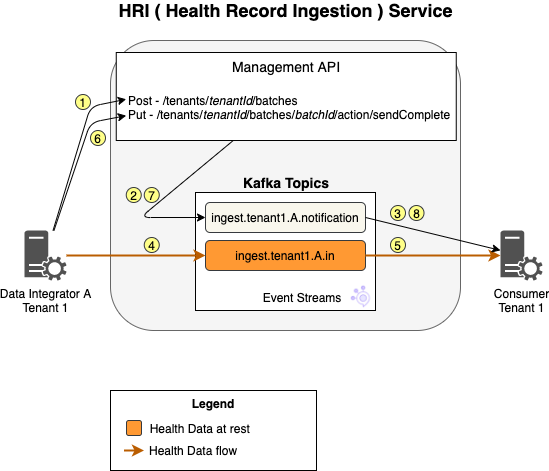
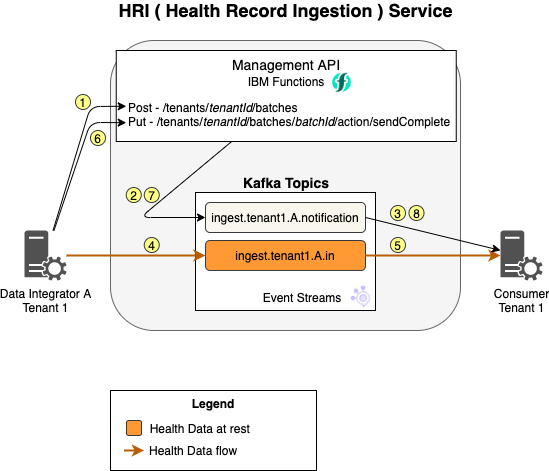
Copied support-2.x branch

Changed region(s): [[0.1548, 0.0892, 0.8361, 0.2675], [0.2168, 0.2972, 0.8361, 0.3567], [0.3406, 0.3567, 0.3716, 0.3864]]

diff --git a/documentation/deployment.md b/documentation/deployment.md
@@ -38,37 +38,23 @@ NOTE: The Event Streams Enterprise plan is expensive, which is why we recommend 
 ## Create Authorization Service
 The HRI Management API requires an authorization service. Integration testing has been performed with [IBM Cloud App ID](https://www.ibm.com/cloud/app-id), but any compliant service can be used. See [Authorization](auth.md) for more details about the requirements and how to set up an App ID cloud service.
 
-## Deploy the HRI Management API to Kubernetes
-The Management API is packaged in a docker container for Kubernetes deployments and available on [GitHub](https://github.com/Alvearie/hri-mgmt-api/pkgs/container/hri-mgmt-api%2Fmgmt-api). The service is stateless, so you can scale up to as many pods as needed or even deploy multiple instances that use the same Elasticsearch, Kafka, and Authorization services.
+## Deploy the HRI Management API to IBM Functions
+The Management API is designed to run on [IBM Functions](https://cloud.ibm.com/docs/openwhisk?topic=openwhisk-about) and can be deployed using the IBM Cloud CLI Functions plug-in. The [deploy.sh](https://github.com/Alvearie/hri-mgmt-api/blob/support-2.x/deploy.sh) script automates the process by creating an IBM Functions namespace, deploying the code and API, setting configuration values, and binding Elasticsearch and Event Streams service credentials. There are also scripts for configuring Elasticsearch, [elastic.sh](https://github.com/Alvearie/hri-mgmt-api/blob/support-2.x/docker/elastic.sh), and performing initial configurations of App ID, [appid.sh](https://github.com/Alvearie/hri-mgmt-api/blob/support-2.x/docker/appid.sh). These scripts are packaged into a docker container with the compiled code to support automated deployments and are available on [GitHub](https://github.com/Alvearie/hri-mgmt-api/pkgs/container/hri-mgmt-api%2Fmgmt-api-deploy). Below is a table of the environment variables used by the scripts.
 
-The Management API process only needs a valid configuration, which can be provided by any combination of command line arguments, environment variables, and a yaml file. Conflicts are resolved in the order: command line arguments (highest priority), environment variables, and yaml file(lowest priority). Below is a table of the configuration options.
-
-| CLI Flag | Description | Required
-|:---------|:------------|:---------
-|`-config-path` | Path to a config file, default "./config.yml" | 
-|`-elastic-crn` | Elasticsearch service CRN | Yes
-|`-elastic-url` | The base url to the Elasticsearch instance | Yes 
-|`-elastic-cert` | Elasticsearch TLS public certificate | Yes
-|`-elastic-username` | Elasticsearch user name | Yes
-|`-elastic-password` | Elasticsearch password | Yes
-|`-kafka-admin-url` | Kafka administration url | Yes
-|`-kafka-brokers` | A list of Kafka brokers, separated by "," | Yes
-|`-kafka-properties` | A list of Kafka properties, entries separated by ",", key value pairs separated by ":" | Yes
-|`-auth-disabled` | `true` to disable OAuth Authorization, default: false |
-|`-oidc-issuer` | The base URL of the OIDC issuer to use for OAuth authentication (e.g. https://us-south.appid.cloud.ibm.com/oauth/v4/<tenantId>). | If `-auth-disabled` is false.
-|`-jwt-audience-id` | The ID of the HRI Management API within your authorization service. | If `-auth-disabled` is false.
-|`-tls-enabled` | Toggle enabling an encrypted connection via TLS, default: false | 
-|`-tls-cert-path` | Path to the TLS certificate. | If `-tls-enabled` is true.
-|`-tls-key-path` | Path to the TLS key. | If `-tls-enabled` is true.
-|`-new-relic-enabled` | True to enable New Relic monitoring, default: false
-|`-new-relic-app-name` | Application name to aggregate data under in New Relic. | If `-new-relic-enabled` is true.
-|`-new-relic-license-key` | New Relic license key. | If `-new-relic-enabled` is true.
-|`-validation` | True to enable record validation, default false |
-|`-log-level` | Minimum Log Level for logging output. Available levels are: Trace, Debug, Info, Warning, Error, Fatal and Panic. Default "info") |
-
-The associated environment variable is named by removing the leading `-`, capitalizing all characters, and replacing remaining `-` with `_`. For example, the `-auth-disabled` flag has the `AUTH_DISABLED` environment variable.
-
-Yaml file entries are named by removing the leading `-`. For example, the `-auth-disabled` flag has the `auth-disabled` yaml entry.
+|  Name     | Description         |
+|-----------|---------------------|
+| IBM_CLOUD_API_KEY   | The API key for IBM Cloud |
+| IBM_CLOUD_REGION    | Target IBM Cloud Region, e.g. 'ibm:yp:us-south' |
+| RESOURCE_GROUP      | Target IBM Cloud Resource Group |
+| NAMESPACE           | Target IBM Functions namespace |
+| ELASTIC_INSTANCE    | Name of Elasticsearch instance |
+| ELASTIC_SVC_ACCOUNT | Name of Elasticsearch service ID |
+| KAFKA_INSTANCE      | Name of Event Streams (Kafka) instance |
+| KAFKA_SVC_ACCOUNT   | Name of Event Streams (Kafka) service ID |
+| VALIDATION          | Whether to deploy the Management API with Validation, e.g. 'true', 'false' |
+| OIDC_ISSUER         | The base URL of the OIDC issuer to use for OAuth authentication (e.g. `https://us-south.appid.cloud.ibm.com/oauth/v4/<tenantId>`)               |
+| APPID_PREFIX        | (Optional) Prefix string to append to the AppId applications and roles created during deployment                                                |
+| SET_UP_APPID        | (Optional) defaults to true. Set to false if you do not want the App ID set-up enabled. |
 
 ## Validation Processing
 Validation processing is an optional feature that validates the data as it flows through the HRI. See [Validation](validation.md) for details on the validation performed and customization options. See [Processing Flows](processflow.md) for details on how it fits into the overall architecture. 

diff --git a/documentation/releases.md b/documentation/releases.md
@@ -4,27 +4,6 @@ This page lists the releases with notes for the HRI with information about how t
 
 Unless stated otherwise in the release notes of a specific version, upgrading the HRI should be achievable without downtime. If you are only upgrading to a new patch version, simply upgrade your existing deployment with the patched version. Otherwise, the new version can be deployed and configured separately in a different namespace while the old HRI version is still active, and the old HRI version can be deleted when migration is complete. In this case, be sure to use the same Elasticsearch and Event Streams instances for both of the HRI versions. Again, please see the upgrade notes for all versions between your current and target versions for any additional requirements.
 
-## v3.x
-Version `3.x` is the latest version focused on making the HRI a cloud-portable service. The Management API was moved from IBM Functions to a standard REST Web server and is packaged into a docker image for Kubernetes based deployments.
-
-### v3.0.0
-
-#### Release notes
-Initial open source release of `v3.x`. This **major HRI release** ports the Management API from IBM Cloud Functions to a standard REST Web server and is packaged into a docker image for Kubernetes based deployments. This release supports the goal of making the HRI a cloud-portable service. 
-
-#### Upgrading
-This release does not contain breaking changes to the API specification, but there are steps required to migrate the Management API to a Kubernetes based deployment. The same IBM Cloud services (Elasticsearch, Event Streams, AppID, etc.) can be shared between a v2.x deployment and a new v3.x deployment. Below are the migration steps:
-
-1. Deploy v3.0.0 to Kubernetes.
-    1. The same namespace of an older deployment can be used.
-    1. If using validation, also update the Flink and Zookeeper deployments. They are backwards compatible with v2.x.
-    1. Use the same OIDC settings, so that existing configurations are used in the new Management API Kubernetes deployment.
-1. If using validation, migrate existing Flink jobs to the latest validation job jars.
-    1. Stop existing validation jobs with a savepoint.
-    1. Restart each job from the savepoint using the latest validation job jar and change the Management API URL to the new Kubernetes deployment. All other parameters should remain the same.
-1. Have Data Integrators and Consumers migrate from the old Management API (URL) to the new Kubernetes deployment endpoints.
-1. When all clients have migrated, delete the IBM Functions namespace that held the old Management API.
-
 ## v2.x
 Version `2.x` uses IBM Functions to deploy the Management API and includes validation processing. It is scheduled for deprecation in Q4 of 2022. Until then security updates and bug fixes will still be made, but no new features will be added. Please upgrade to the latest version at your earliest convenience.
 
@@ -37,7 +16,7 @@ Initial open source release of `v2.x`.
 This release **does not contain** breaking changes. Data Integrators and Consumers will maintain access to old batches. However, please note that there are changes to the Elasticsearch mapping template, which must be applied to all existing indices (one for every tenant). Below is a series of upgrade tasks. 
 
 1. The Elasticsearch index mappings need to be updated to account for the new `expectedRecordCount`, `actualRecordCount`, `invalidThreshold`, and `invalidRecordCount` fields. `recordCount` is considered deprecated as of v2.0.0 and `expectedRecordCount` should be used instead.
-2. Download the new index template from [GitHub](https://github.com/Alvearie/hri-mgmt-api/blob/v2.1-2.1.5/document-store/index-templates/batches.json)
+2. Download the new index template from [GitHub](https://github.com/Alvearie/hri-mgmt-api/blob/support-2.x/document-store/index-templates/batches.json)
 3. Follow these [instructions](troubleshooting.md#upgrade-existing-elasticsearch-indices) to upgrade all the existing Elasticsearch indices with the `batch.json` index template downloaded in the prior step.
 
 The `expectedRecordCount`, `actualRecordCount`, `invalidThreshold`, and `invalidRecordCount` fields have also been added to the [Batch API](apispec.md#batches) and [Notification Message](apispec.md#notification-messages) model, so Data Integrators and Consumers may need to update their integration tools to prevent parsing errors. Additional Batch Notification messages and `status` values have also been added. For more information, refer to the [Batch Status Transitions](processflow.md#batch-status-transitions) documentation.

diff --git a/documentation/monitorlog.md b/documentation/monitorlog.md
@@ -1,18 +1,31 @@
 # HRI Monitoring & Logging
 
-## HRI Management API 
+## HRI Management API
 
 ### Logging
-The Management API writes logs to standard out and can be configured to output these levels: Trace, Debug, Info, Warning, Error, Fatal and Panic. The default level is Info. At Info and below, every request's response code is logged. At Debug and below, the request and responses body is also logged.
 
-In addition, every request is assigned a unique ID, which is included is most log messages and all error responses as the `errorEventId`. This helps facilitate investigation of issues with specific calls. If the client experiencing the issue can provide the `errorEventId`, the logs can be easily searched for that ID to find all relevant log messages.
+#### IBM Functions Tooling
+IBM Cloud Functions provides some built-in monitoring tools. On the IBM Cloud Functions main page, select the correct/appropriate [_Namespace_](https://cloud.ibm.com/docs/openwhisk?topic=openwhisk-namespaces) for your particular Management API deployment. Then select the "Activations Dashboard" link from the left-hand side menu. 
+
+![ibm-functions-nav-menu](images/ibm_functions_nav_menu_activations.png)
+
+The Activations Dashboard will show recent calls (limited to 7 days) to the Management API, their response times, and failure indicators. You can click on the _`activationId` link_ for any given function invocation to view additional details. In the example below, for the `create_batch` function call, the `activationId` is the alpha-numeric identifier string starting with "21fc4f038ddb":
+
+![functions-monitor-page](images/functions_activations_dashboard_page.jpg)
+
+Clicking the `activationId` link will open up a new tab showing the details of that particular function call, including the path and any possible error event or description.
+
+![fx-activity-detail](images/fx_activity_detail.jpg)
+
+#### LogDNA
+Logs from IBM Functions are also written to the LogDNA instance designated as "Platform Logs" for your Cloud account. You view the list of LogDNA instances here: https://cloud.ibm.com/observe/logging. Open the dashboard to view the logs, which will also contain messages from many other IBM Cloud services. Choose the “All Sources” menu and select the “functions” checkbox to filter only on IBM Functions log messages as seen in this Screen Cap:
+
+![filtering-by-functions](images/filter_by_functions.jpg)
+
+The search bar at the bottom can also be used to filter for specific messages. For example, since "`batches/`" is on the path of the REST API requests for many of the Management API operations, searching for it will only show those related logs. Additionally, most error responses returned from the Management API and most logging messages within the Management API include an [errorEventId](https://github.com/Alvearie/hri-api-spec/blob/support-2.x/management-api/management.yml). The `errorEventId` in an error response for a specific API invocation will match the `errorEventId` on logging messages from the same API invocation. Searching by the `errorEventId` is a recommended tactic for troubleshooting because it can illustrate what took place during the event call which produced the error.
 
 ### Monitoring
-The Management API has two endpoints to facilitate monitoring its health.
-
-1. There is an `/alive` that is not documented in the API specification as it not intended to be part of the exposed API. This endpoint is for Kubernetes liveness and readiness probes and ensures the [Echo web server](glossary.md#echo) is up and responding to requests. It requires no authentication and responds with a 200 code and `yes`.
-
-2. There is an `/hri/healthcheck` endpoint that checks the health of Elasticsearch and Kafka. It requires no authentication and responds with a 200 code and an empty body on success. If there are any issues a 500 code and body describing the issue is returned.
+The Management API has an `/hri/healthcheck` endpoint can that be used to monitor its health. It ensures the service is running and also checks the health of Elasticsearch and Event Streams. It requires no authentication and responds with a 200 code and an empty body on success. If there are any issues a 500 code and body describing the issue is returned.
 
 ## Event Streams
 

diff --git a/README.md b/README.md
@@ -12,7 +12,7 @@ Uses mkdocs https://www.mkdocs.org/. To add links modify `mkdocs.yml`.
 
 ### How to render locally
 * Prerequisites:
-  * Building the docs requires the `mkdocs`, `mkdocs-material`, and `pymdown-extensions` packages. 
+  * Building the docs requires the `mkdocs`, `mkdocs-material`, and `pymdown-extensions` packages.
   * Publishing the docs to GitHub Pages requires the `mike` package. (You can likely leave this step to the GitHub action builds, see [below](#how-to-publish-to-github-pages))
   * All of these can be installed with pip (ensure you are running python 3 at least) by running `pip install -r requirements.in`.
 
@@ -20,13 +20,13 @@ Uses mkdocs https://www.mkdocs.org/. To add links modify `mkdocs.yml`.
 * In your browser, go to the localhost address printed in the output of the `mkdocs serve` command.
 
 ### How to publish to GitHub pages
-We use a tool called [mike](https://github.com/jimporter/mike) to publish multiple versions of our documentation from different branches of the docs repo. The `mike deploy` command helps us build the docs, give that build a tag (e.g. `v3.x`) and publish that version of the documentation to the GitHub pages of the repo. Generally, you should not need to run this locally, as automated GitHub actions builds keep our published docs up to date. It will automatically build and deploy any changes to the `main` and `support-*` branches. If for some reason you need to, or you want to experiment in a private repo, you can see the actions for how we use `mike`.
+We use a tool called [mike](https://github.com/jimporter/mike) to publish multiple versions of our documentation from different branches of the docs repo. The `mike deploy` command helps us build the docs, give that build a tag (e.g. `v3.x`) and publish that version of the documentation to the GitHub pages of the repo. Generally, you should not need to run this locally, as automated GitHub Actions builds keep our published docs up to date. It will automatically build and deploy any changes to the `main` and `support-*` branches. If for some reason you need to, or you want to experiment in a private repo, you can see the GitHub Actions for how we use `mike`.
 
 ### Checks
 The `refCheck.sh` script is included to detect bad references and orphaned images. Just run this script from the base directory. It will print out any images in the `documentation/images/` directory that are being referenced in the markdown files and any references in the markdown files to a file or image that do not exist.
 
 ### Diagrams
-The diagrams are created with `draw.io`. You can download the app from GitHub: https://github.com/jgraph/drawio-desktop/releases/. All diagrams are png images with an embedded diagram, so they can be easily updated. To create a new one use File -> Export as -> PNG..., and select 'Include a copy of my diagram'. Save the images to `documentation/images`.
+The diagrams are created with `draw.io`. You can download the app from GitHub: https://github.com/jgraph/drawio-desktop/releases/. All diagrams are png images with an embedded diagram, so they can be easily updated. To create a new one, use File -> Export as -> PNG..., and select 'Include a copy of my diagram'. Save the images to `documentation/images`.
 
 ## Contribution Guide
 Please read [CONTRIBUTING.md](CONTRIBUTING.md) for details on our code of conduct, and the process for submitting pull requests to us.

diff --git a/documentation/auth.md b/documentation/auth.md
@@ -16,8 +16,6 @@ The Management API uses [OAuth 2.0](https://oauth.net/2/), [OIDC](https://openid
 ### Batch Endpoint Authorization
 Regarding batch endpoint authorization with JWT Tokens, the HRI does not include an authorization or authentication service, so users must provide one themselves and configure it as per the specification below. Oauth 2 and OIDC are widely used standards which allow solutions to use their own authorization & authentication. Your token issuer must be OIDC compliant, because the OIDC defined well-known endpoints are how the Management API will validate access tokens. HRI uses IBM Cloud App ID for its reference implementation of an OIDC-compliant authorization service. There are instructions provided below for how HRI users can configure their own instance of IBM Cloud App ID.
 
-Optionally, if solutions need to use a different authorization mechanism, authorization on the batch endpoints can be disabled. Solutions would deploy their own authorization proxy service, which would receive the initial request, perform authorization, and then proxy calls to the Management API service.
-
 ### Required Token Scopes:
 You must configure your authorization service to include HRI roles and tenant [scopes](https://oauth.net/2/scope/) in the access tokens (Note: `scope` is a standard claim that is a space-separated list of strings).
 
@@ -31,7 +29,7 @@ A Tenant scope matching the _tenant ID_ is required every time you call a "batch
 
 For example, if a data integrator tries to create a batch by making an HTTP POST call to `tenants/24/batches`, the token must contain scope `tenant_24`, where the `24` is the tenantId.
 
-Also, see [Multi-tenancy](multitenancy.md) for more information about tenants and roles. See the API [spec](https://github.com/Alvearie/hri-api-spec/blob/main/management-api/management.yml) for more details about required roles for specific endpoints.
+Also, see [Multi-tenancy](multitenancy.md) for more information about tenants and roles. See the API [spec](https://github.com/Alvearie/hri-api-spec/blob/support-2.x/management-api/management.yml) for more details about required roles for specific endpoints.
 
 
 ### Configuring the Token Issuer

diff --git a/documentation/apispec.md b/documentation/apispec.md
@@ -2,7 +2,7 @@
 The HRI consists of two separate APIs: the Management API and Apache Kafka.
 
 ## Management API Specification
-The Management API is defined using the OpenAPI 3.0 specification: [management.yml](https://github.com/Alvearie/hri-api-spec/blob/main/management-api/management.yml).
+The Management API is defined using the OpenAPI 3.0 specification: [management.yml](https://github.com/Alvearie/hri-api-spec/blob/support-2.x/management-api/management.yml).
 You can open the file directly or use a program such as IntelliJ or [Swagger UI](https://swagger.io/tools/swagger-ui/download/) to view it.
 
 ### HRI Tenants & Elasticsearch Indices
@@ -103,10 +103,10 @@ The HRI **does** have the following requirements and recommendations:
 
   
 ### Notification Messages
-The notification messages are json-encoded batches. They match the schema returned by the Management API described above, which is also defined here: [batchNotification.json](https://github.com/Alvearie/hri-api-spec/blob/main/notifications/batchNotification.json).
+The notification messages are json-encoded batches. They match the schema returned by the Management API described above, which is also defined here: [batchNotification.json](https://github.com/Alvearie/hri-api-spec/blob/support-2.x/notifications/batchNotification.json).
 
 ### Invalid Record Notifications
-When validation encounters an invalid record, an invalid record notification is written to the `*.invalid` topic. It contains a failure message, the batchId, and a pointer to the original record. Below is a table of the fields, and the json schema is defined here: [invalidRecord.json](https://github.com/Alvearie/hri-api-spec/blob/main/notifications/invalidRecord.json).
+When validation encounters an invalid record, an invalid record notification is written to the `*.invalid` topic. It contains a failure message, the batchId, and a pointer to the original record. Below is a table of the fields, and the json schema is defined here: [invalidRecord.json](https://github.com/Alvearie/hri-api-spec/blob/support-2.x/notifications/invalidRecord.json).
 
 | Field | Description |
 |-------|-------------|

diff --git a/documentation/processflow.md b/documentation/processflow.md
@@ -48,11 +48,11 @@ There's no validation processing and only the `*.in` and `*.notification` topics
 8. The Data Consumer receives the batch notification message.
 
 ## Batch Status Transitions
-Batches can go through several status changes, and for each change a notification message is written to the `*.notification` topic. Below is a state diagram indicating all the states the transition events. Note that the transitions are slightly different depending on whether validation has been enabled.
+Batches can go through several status changes, and for each change a notification message is written to the `*.notification` topic. Below is a state diagram indicating all the states and the transition events. Note that the transitions are slightly different depending on whether validation has been enabled.
 
 ![batch-status](images/batch-status.png) 
 
 ### Interleaved Batches
-The HRI does not prevent the Data Integrator from writing multiples batches into the same topic at the same time. Every record will have a header value that specifies the ["batchId"](glossary.md#batch-id), which is returned from the Management API (see [hri-api-spec/management-api/management.yml](https://github.com/Alvearie/hri-api-spec/blob/main/management-api/management.yml)), so the Data Consumer can distinguish each one. 
+The HRI does not prevent the Data Integrator from writing multiples batches into the same topic at the same time. Every record will have a header value that specifies the ["batchId"](glossary.md#batch-id), which is returned from the Management API (see [hri-api-spec/management-api/management.yml](https://github.com/Alvearie/hri-api-spec/blob/support-2.x/management-api/management.yml)), so the Data Consumer can distinguish each one. 
 
 In practice, the Data Integrator may only write one batch at a time. As necessary, additional input topics can be created to prevent the interleaving of batches or data types. However, please note that, in general, **_Kafka performs better with a small number of large topics_**.

diff --git a/documentation/glossary.md b/documentation/glossary.md
@@ -3,7 +3,7 @@
 A listing of key terms and phrases to help one's understanding of the Health Record Ingestion service.
 
 #### Batch: 
-  * A __Batch__ in an HRI context represents a **_collection of Health Data records that must be processed together_** in order for that dataset to be ingested correctly into a cloud based solution. Only processing some of the data would result in a bad state for the data consumer. Likewise, if there is an error with processing part of the data, the entire **batch** may need to be rejected.
+  * A __Batch__ in an HRI context represents a **_collection of Health Data records that must be processed together_** in order for that dataset to be ingested correctly into a cloud-based solution. Only processing some of the data would result in a bad state for the data consumer. Likewise, if there is an error with processing part of the data, the entire **batch** may need to be rejected.
   
 #### Batch ID: 
   * A unique identifier in HRI, referring to one specific batch. 
@@ -14,9 +14,6 @@ A listing of key terms and phrases to help one's understanding of the Health Rec
 #### Data Integrator: 
   * An "upstream" service, process or application that "sends" data into the HRI for processing. 
 
-#### Echo:
-* Go web framework used by the Management API. See the [Echo website](https://echo.labstack.com) for more details.
-  
 #### Elasticsearch: 
   * A [distributed, open-source document store](https://www.elastic.co/what-is/elasticsearch) used to store various types of data. HRI uses Elasticsearch as its primary data store for metadata about batches. 
   

diff --git a/documentation/validation.md b/documentation/validation.md
@@ -35,13 +35,13 @@ Additional Resources:
     - GitHub repo: [https://github.com/Alvearie/hri-flink-pipeline-core](https://github.com/Alvearie/hri-flink-pipeline-core)
     - Dependency declaration: 
 
-            org.alvearie.hri.flink:hri-flink-pipeline-core:3.0-1.0.2
+            org.alvearie.hri.flink:hri-flink-pipeline-core:2.1-1.0.1
 
 - Flink Validation FHIR - FHIR schema validation written in Scala. The FHIR validator is also published as a library in GitHub packages.
     - GitHub repo: [https://github.com/Alvearie/hri-flink-validation-fhir](https://github.com/Alvearie/hri-flink-validation-fhir)
     - FHIR schema validator dependency declaration: 
 
-            org.alvearie..hri.flink:hri-flink-validator-fhir:3.0-1.0.2
+            org.alvearie..hri.flink:hri-flink-validator-fhir:2.1-1.0.1
   
 - Flink Validation Passthrough - Passthrough validation written in Java
     - GitHub repo: [https://github.com/Alvearie/hri-flink-validation-passthrough](https://github.com/Alvearie/hri-flink-validation-passthrough)

diff --git a/documentation/index.md b/documentation/index.md
@@ -15,7 +15,7 @@ The key features are:
 - [Flink](https://flink.apache.org/) is a stateful stream processing framework that is used to perform validation.
 
 ## IBM Cloud Dependencies  
-The HRI was developed on the IBM Cloud and currently does not support running on other public or private clouds. However, as a part of Alvearie, the goal is to support other public and private cloud, which the team continues to work towards. Please see the [Roadmap](roadmap.md) for additional details.   
+The HRI was developed on the IBM Cloud and currently does not support running on other public or private clouds. However, as a part of Alvearie, the goal is to support other public and private clouds, which the team continues to work towards. Please see the [Roadmap](roadmap.md) for additional details.   
 
 ## Core Architecture
 ![core-architecture](images/architecture-core.png)
